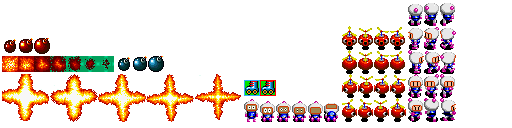
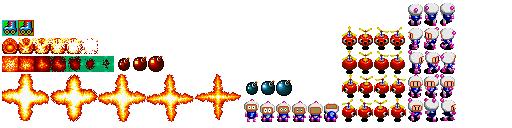
animation of destruction gameObject

Changed region(s): [[0.0, 0.1562, 0.1875, 0.4375], [0.4688, 0.625, 0.5938, 0.75], [0.2188, 0.4375, 0.3438, 0.5625]]

diff --git a/core/src/com/bormberman/ecs/systems/BomDestructionSystem.java b/core/src/com/bormberman/ecs/systems/BomDestructionSystem.java
@@ -6,13 +6,16 @@ import com.badlogic.ashley.systems.IteratingSystem;
 import com.bormberman.Bomberman;
 import com.bormberman.WorlContactListener;
 import com.bormberman.ecs.ESCEngine;
+import com.bormberman.ecs.components.AnimationComponent;
 import com.bormberman.ecs.components.FireComponent;
-import com.bormberman.ecs.components.RemoveComponent;
+import com.bormberman.ecs.components.GameObjectComponent;
+import com.bormberman.ecs.components.GameObjectDESTComponent;
+import com.bormberman.ui.AnimationType;
 
 public class BomDestructionSystem extends IteratingSystem implements WorlContactListener{
-    private ESCEngine engine ;
+    private ESCEngine engine;
     public BomDestructionSystem(Bomberman context, ESCEngine engine) {
-        super(Family.all(RemoveComponent.class).get());
+        super(Family.all(GameObjectComponent.class, AnimationComponent.class).get());
         this.engine = engine;
         context.getWorldContactListener().addCollisionFire(this);
         context.getWorldContactListener().addCollisionGameobject(this);
@@ -20,10 +23,23 @@ public class BomDestructionSystem extends IteratingSystem implements WorlContact
 
     @Override
     public void colisionEntity(Entity entityA, Entity entityB) {
+        
         if (entityB.getComponent(FireComponent.class) != null) {
-            entityA.add(engine.createComponent(RemoveComponent.class));
+            if (entityA.getComponent(GameObjectComponent.class)!= null) {
+                final AnimationComponent animationComponent = ESCEngine.A_COMPONENT_MAPPER.get(entityA);
+                entityA.remove(GameObjectComponent.class);
+                entityA.add(engine.createComponent(GameObjectDESTComponent.class));
+                animationComponent.aniTime = AnimationType.GAME_OBJECT_DEST.getFrameTime();
+                animationComponent.aniType = AnimationType.GAME_OBJECT_DEST;
+            }
         }else if ( entityA.getComponent(FireComponent.class) != null) {
-            entityB.add(engine.createComponent(RemoveComponent.class));
+            if (entityB.getComponent(GameObjectComponent.class)!= null) {
+                final AnimationComponent animationComponent = ESCEngine.A_COMPONENT_MAPPER.get(entityB);
+                entityB.remove(GameObjectComponent.class);
+                entityB.add(engine.createComponent(GameObjectDESTComponent.class));
+                animationComponent.aniTime = AnimationType.GAME_OBJECT_DEST.getFrameTime();
+                animationComponent.aniType = AnimationType.GAME_OBJECT_DEST;
+            }
         }
     }
 

diff --git a/core/src/com/bormberman/ecs/ESCEngine.java b/core/src/com/bormberman/ecs/ESCEngine.java
@@ -18,6 +18,7 @@ import com.bormberman.ecs.components.PlayerComponent;
 import com.bormberman.ecs.systems.AnimationMoveEnemySystem;
 import com.bormberman.ecs.systems.AnimationSystem;
 import com.bormberman.ecs.systems.BomDestructionSystem;
+import com.bormberman.ecs.systems.DestructionOfGameObject;
 import com.bormberman.ecs.systems.EnemyMovementSystem;
 import com.bormberman.ecs.systems.ExplotionSystem;
 import com.bormberman.ecs.systems.FireSystem;
@@ -61,6 +62,7 @@ public class ESCEngine extends PooledEngine{
         this.addSystem(new ExplotionSystem(context, this));
         this.addSystem(new FireSystem(context, this));
         this.addSystem(new BomDestructionSystem(context, this));
+        this.addSystem(new DestructionOfGameObject(this));
         this.addSystem(new RemoveSystem());
     }
     public void createPlayer(final Vector2 startSpawnLocation, final float width,final float heigth) {
@@ -211,7 +213,7 @@ public class ESCEngine extends PooledEngine{
 
         this.addEntity(bomEntity);
     }
-    public void createFire(Vector2 position, float width, float heigth, String string) {
+    public void createFire(Vector2 position, float width, float heigth) {
         final Entity fireEntity = this.createEntity();
         //BomComponent
         final FireComponent fireComponent =  this.createComponent( FireComponent.class);

diff --git a/core/src/com/bormberman/ui/GameRederer.java b/core/src/com/bormberman/ui/GameRederer.java
@@ -141,7 +141,7 @@ public class GameRederer implements Disposable, MapListener{
             Gdx.app.debug(TAG, "Creando una nueva animacion de tipo: "+aniType);   
             final AtlasRegion region = assetManager.get(aniType.getAtlasPath(),TextureAtlas.class).findRegion(aniType.getAtalsKey());
             TextureRegion[][]textureRegions;
-            if (aniType.equals(AnimationType.BOM_IDLE) || aniType.equals(AnimationType.BOM_TIMEOUT)) {
+            if (aniType.equals(AnimationType.BOM_IDLE) || aniType.equals(AnimationType.BOM_TIMEOUT) || aniType.equals(AnimationType.GAME_OBJECT_DEST)) {
                 textureRegions= region.split(16, 16);
             }else if (aniType.equals(AnimationType.FIRE)){
                 textureRegions= region.split(48, 48);
@@ -149,7 +149,7 @@ public class GameRederer implements Disposable, MapListener{
                 textureRegions= region.split(16, 24);
             }
             animation = new Animation<Sprite>(aniType.getFrameTime(), getKeyFrame(textureRegions[aniType.getRowIndex()]));
-            if (aniType.equals(AnimationType.FIRE)) {
+            if (aniType.equals(AnimationType.FIRE) || aniType.equals(AnimationType.GAME_OBJECT_DEST)) {
                 animation.setPlayMode(Animation.PlayMode.NORMAL);
             }else{
 

diff --git a/core/src/com/bormberman/ecs/systems/DestructionOfGameObject.java b/core/src/com/bormberman/ecs/systems/DestructionOfGameObject.java
@@ -1,0 +1,32 @@
+package com.bormberman.ecs.systems;
+
+import com.badlogic.ashley.core.Entity;
+import com.badlogic.ashley.core.Family;
+import com.badlogic.ashley.systems.IteratingSystem;
+import com.badlogic.gdx.utils.Timer;
+import com.badlogic.gdx.utils.Timer.Task;
+import com.bormberman.ecs.ESCEngine;
+import com.bormberman.ecs.components.AnimationComponent;
+import com.bormberman.ecs.components.GameObjectDESTComponent;
+import com.bormberman.ecs.components.RemoveComponent;
+
+public class DestructionOfGameObject extends IteratingSystem{
+    private ESCEngine engine;
+    public DestructionOfGameObject( ESCEngine engine) {
+        super(Family.all(GameObjectDESTComponent.class, AnimationComponent.class).get());
+        this.engine = engine;
+    }
+
+    @Override
+    protected void processEntity(Entity entity, float deltaTime) {
+            Timer.schedule(new Task() {
+
+                @Override
+                public void run() {
+                    entity.add(engine.createComponent(RemoveComponent.class));
+                }
+                
+            }, 0.30f);
+    }
+    
+}

diff --git a/core/src/com/bormberman/ecs/systems/ExplotionSystem.java b/core/src/com/bormberman/ecs/systems/ExplotionSystem.java
@@ -32,10 +32,7 @@ public class ExplotionSystem extends IteratingSystem{
             if (bomComponent.timeOfExplote>0) {
                 bomComponent.timeOfExplote-= deltaTime;
             }else{
-                engine.createFire(b2dComponent.body.getPosition(), b2dComponent.width, b2dComponent.heigth, "UP");
-                //engine.createFire(b2dComponent.body.getPosition(), b2dComponent.width, b2dComponent.heigth, "RIGTH");
-                //engine.createFire(b2dComponent.body.getPosition(), b2dComponent.width, b2dComponent.heigth, "DOWN");
-                //engine.createFire(b2dComponent.body.getPosition(), b2dComponent.width, b2dComponent.heigth, "LEFT");
+                engine.createFire(b2dComponent.body.getPosition(), b2dComponent.width, b2dComponent.heigth);
                 entity.add(((ESCEngine) getEngine()).createComponent(RemoveComponent.class));
             }
         }

diff --git a/core/src/com/bormberman/ui/AnimationType.java b/core/src/com/bormberman/ui/AnimationType.java
@@ -20,7 +20,9 @@ BOMBERMAN_UP("animations/animationMap.atlas","bombermanSprite",0.15f,0),
     BOM_IDLE("animations/animationMap.atlas","bomAnimation",0.20f,0),
     BOM_TIMEOUT("animations/animationMap.atlas","bomAnimationTimeOut",0.15f,0),
     //FIRE
-    FIRE("animations/animationMap.atlas","fireAnimation",0.15f,0);
+    FIRE("animations/animationMap.atlas","fireAnimation",0.15f,0),
+    //GAMEOBJECT
+    GAME_OBJECT_DEST("animations/animationMap.atlas","objectDestruction",0.15f,0);
 
     private String atlasPath,atalsKey;
     private float frameTime;

diff --git a/core/src/com/bormberman/ecs/components/GameObjectDESTComponent.java b/core/src/com/bormberman/ecs/components/GameObjectDESTComponent.java
@@ -1,0 +1,13 @@
+package com.bormberman.ecs.components;
+
+import com.badlogic.ashley.core.Component;
+import com.badlogic.gdx.utils.Pool.Poolable;
+
+public class GameObjectDESTComponent implements Component, Poolable {
+
+    @Override
+    public void reset() {
+        
+    }
+    
+}
